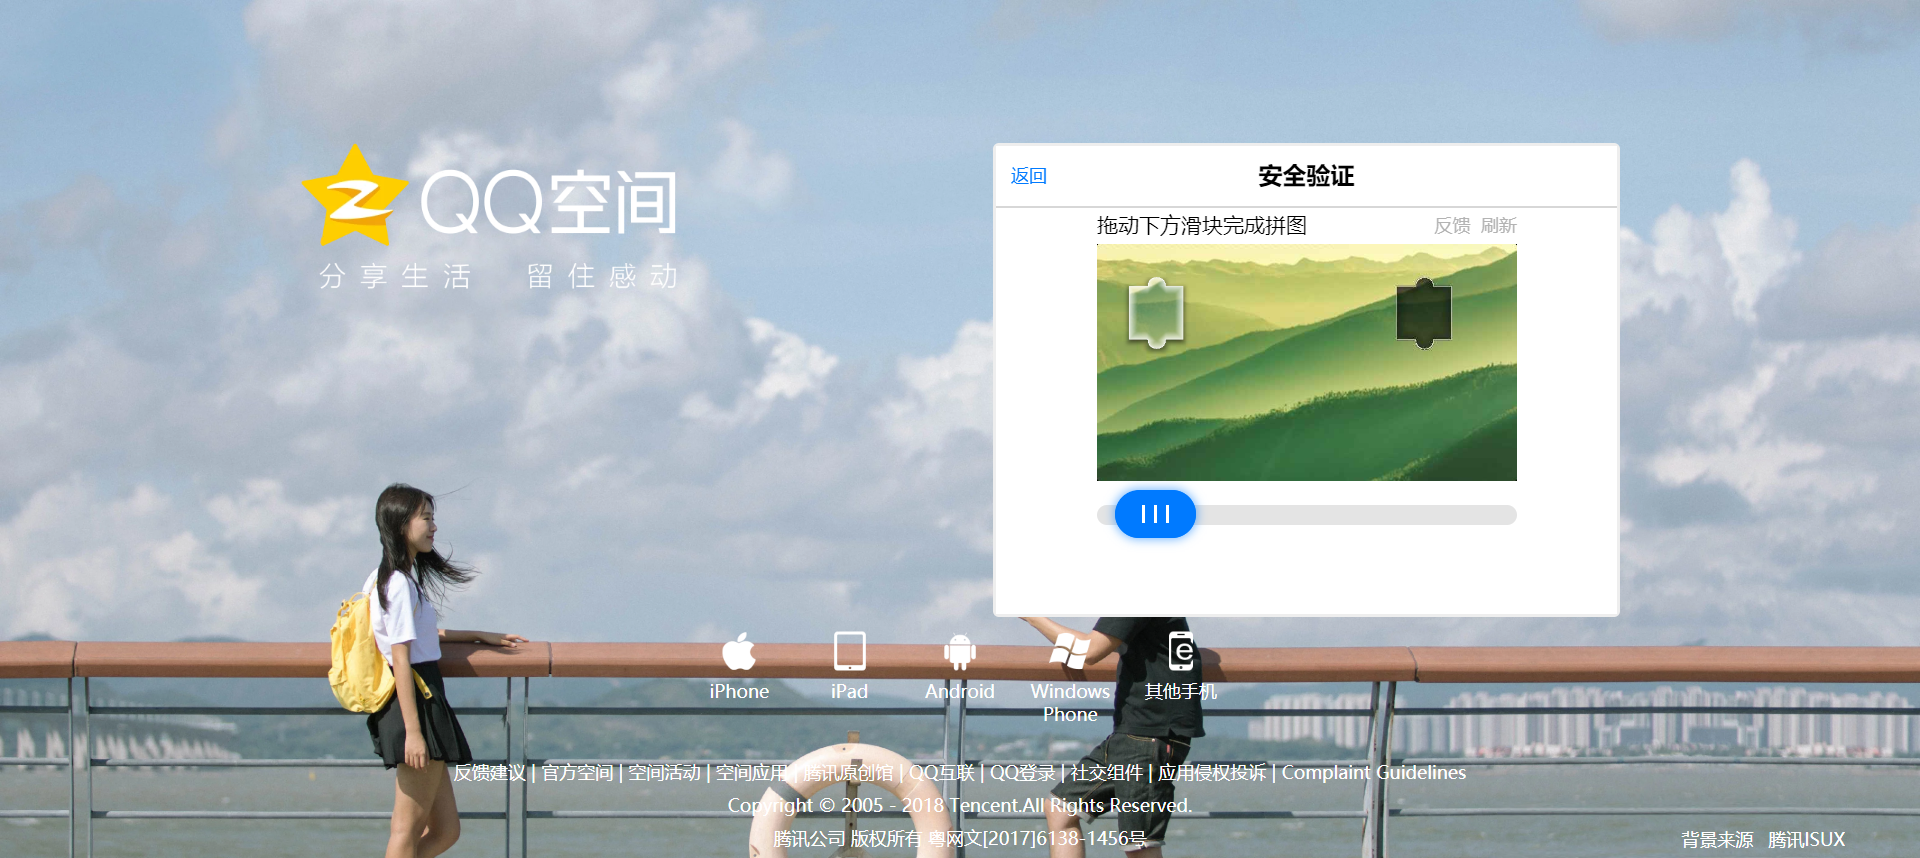
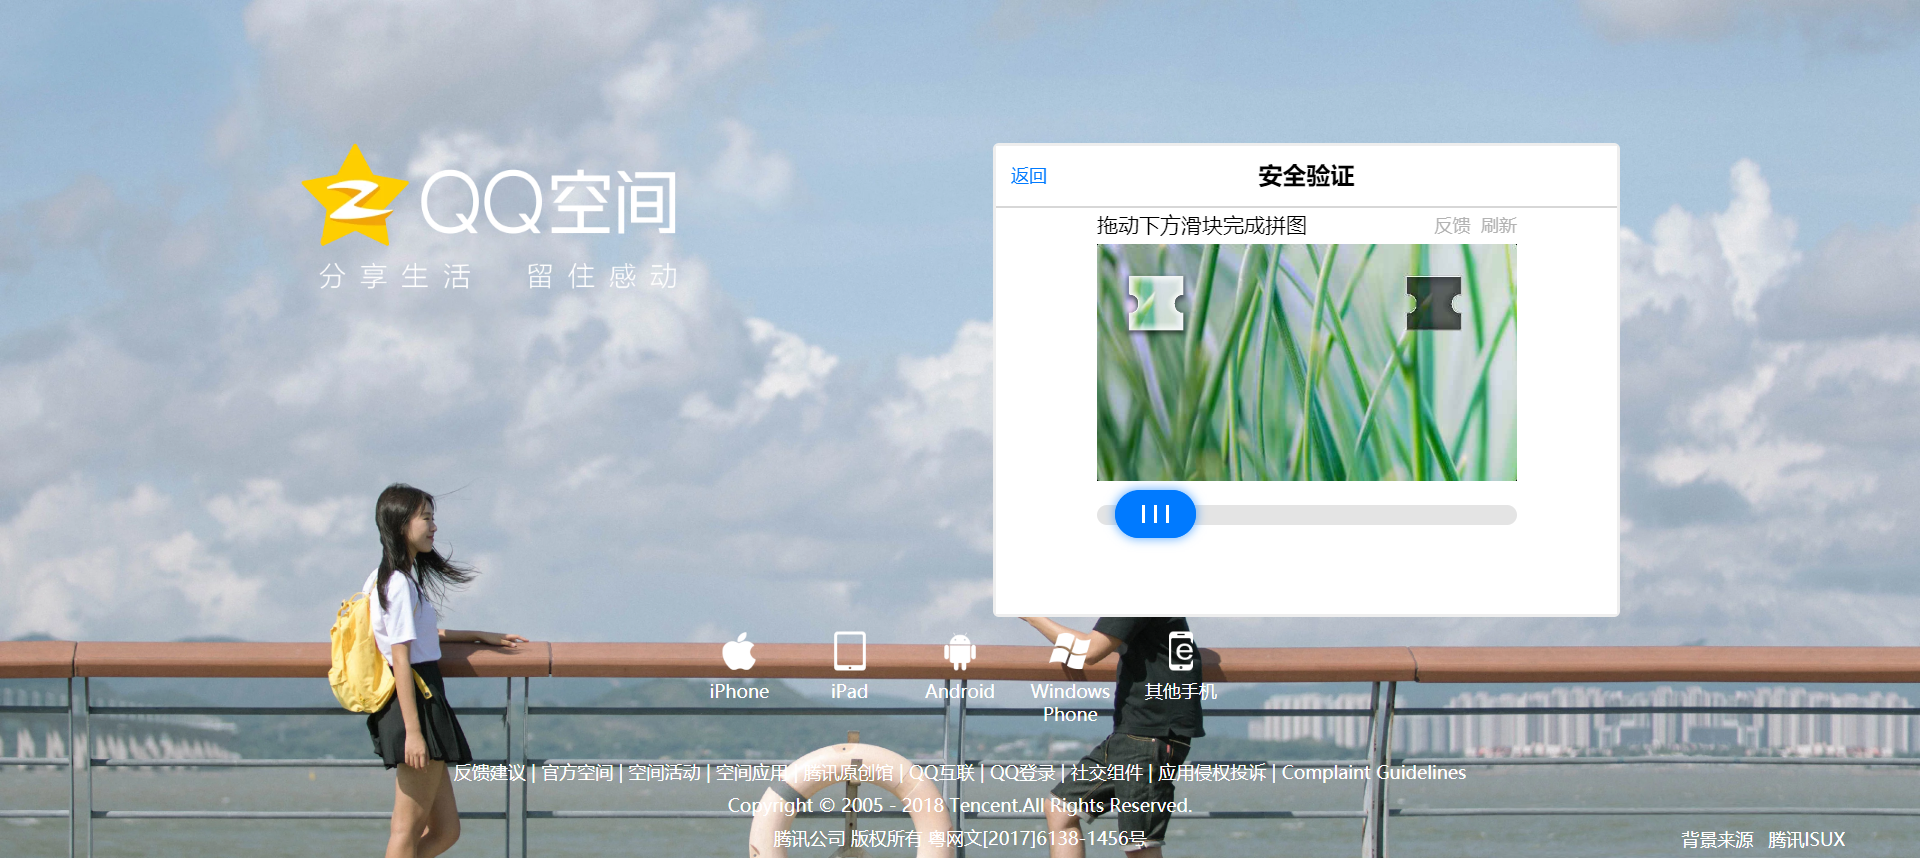
1

Changed region(s): [[0.5625, 0.2727, 0.8125, 0.5758]]

diff --git a/Demo.py b/Demo.py
@@ -1,0 +1,164 @@
+from selenium import webdriver
+from selenium.webdriver.common.by import By
+from pillow import Image, ImageEnhance
+from selenium.webdriver import ActionChains
+from selenium.webdriver.common.keys import Keys
+from selenium.webdriver.support import expected_conditions as EC
+from selenium.webdriver.support.wait import WebDriverWait
+import cv2
+import numpy as np
+from io import BytesIO
+import time, requests
+
+class CrackSlider():
+    """
+    通过浏览器截图，识别验证码中缺口位置，获取需要滑动距离，并模仿人类行为破解滑动验证码
+    """
+    def __init__(self):
+        super(CrackSlider, self).__init__()
+        # 实际地址
+        self.url = 'http://3g.163.com/wap/special/newsapp_idol_personal/?starId=14#/home'
+        self.driver = webdriver.Chrome()
+        self.wait = WebDriverWait(self.driver, 20)
+        self.zoom = 2
+
+    def open(self):
+        self.driver.get(self.url)
+
+    def get_pic(self):
+        time.sleep(2)
+        target = browser.find_element_by_class_name("yidun_bg-img")
+        template = browser.find_element_by_class_name("yidun_jigsaw")
+        target_link = target.get_attribute('src')
+        template_link = template.get_attribute('src')
+        target_img = Image.open(BytesIO(requests.get(target_link).content))
+        template_img = Image.open(BytesIO(requests.get(template_link).content))
+        target_img.save('target.jpg')
+        template_img.save('template.png')
+        size_orign = target.size
+        local_img = Image.open('target.jpg')
+        size_loc = local_img.size
+        self.zoom = 320 / int(size_loc[0])
+
+    def get_tracks(self, distance):
+        print(distance)
+        distance += 20
+        v = 0
+        t = 0.2
+        forward_tracks = []
+        current = 0
+        mid = distance * 3/5
+        while current < distance:
+            if current < mid:
+                a = 2
+            else:
+                a = -3
+            s = v * t + 0.5 * a * (t**2)
+            v = v + a * t
+            current += s
+            forward_tracks.append(round(s))
+
+        back_tracks = [-3,-3,-2,-2,-2,-2,-2,-1,-1,-1]
+        return {'forward_tracks':forward_tracks,'back_tracks':back_tracks}
+
+    def match(self, target, template):
+        img_rgb = cv2.imread(target)
+        img_gray = cv2.cvtColor(img_rgb, cv2.COLOR_BGR2GRAY)
+        template = cv2.imread(template,0)
+        run = 1
+        w, h = template.shape[::-1]
+        print(w, h)
+        res = cv2.matchTemplate(img_gray,template,cv2.TM_CCOEFF_NORMED)
+
+        # 使用二分法查找阈值的精确值
+        L = 0
+        R = 1
+        while run < 20:
+            run += 1
+            threshold = (R + L) / 2
+            if threshold < 0:
+                print('Error')
+                return None
+            loc = np.where( res >= threshold)
+            #print(len(loc[1]))
+            if len(loc[1]) > 1:
+                L += (R - L) / 2
+            elif len(loc[1]) == 1:
+                print('目标区域起点x坐标为：%d' % loc[1][0])
+                break
+            elif len(loc[1]) < 1:
+                R -= (R - L) / 2
+
+        return loc[1][0]
+
+    def crack_slider(self,browser):
+        #self.open()
+        target = 'target.jpg'
+        template = 'template.png'
+        self.get_pic()
+        distance = self.match(target, template)
+        zoo = 1.36 #缩放系数，需要自己调整大小
+        tracks = self.get_tracks((distance + 7 )*zoo) # 对位移的缩放计算
+        #print(tracks)
+        slider = browser.find_element_by_class_name("yidun_slider")
+        ActionChains(browser).click_and_hold(slider).perform()
+
+        for track in tracks['forward_tracks']:
+            ActionChains(browser).move_by_offset(xoffset=track, yoffset=0).perform()
+
+        time.sleep(0.5)
+        for back_tracks in tracks['back_tracks']:
+            ActionChains(browser).move_by_offset(xoffset=back_tracks, yoffset=0).perform()
+
+        ActionChains(browser).move_by_offset(xoffset=-3, yoffset=0).perform()
+        ActionChains(browser).move_by_offset(xoffset=3, yoffset=0).perform()
+        time.sleep(0.5)
+        ActionChains(browser).release().perform()
+        try:
+            failure = WebDriverWait(browser, 5).until(EC.text_to_be_present_in_element((By.CLASS_NAME, 'yidun_tips__text'), '向右滑动滑块填充拼图'))
+            print(failure)
+        except:
+            print('验证成功')
+            return None
+
+        if failure:
+            self.crack_slider(browser)
+
+#if __name__ == '__main__':
+browser = webdriver.Chrome()
+
+username="11111111"  #填自己的用户名
+passwd="1111111" #填用户名对应的密码
+browser = webdriver.Chrome()
+# 打开的是QQ登录界面，可以自己改
+browser.get('https://xui.ptlogin2.qq.com/cgi-bin/xlogin?appid=716027609&pt_3rd_aid=100374397&daid=383&pt_skey_valid=0&style=35&s_url=http%3A%2F%2Fconnect.qq.com&refer_cgi=authorize&which=&client_id=100374397&redirect_uri=https%3A%2F%2Freg.163.com%2FouterLogin%2Foauth2%2Ftencent_connect.do%3Furl%3Dhttp%253A%252F%252F3g.163.com%252Fwap%252Fspecial%252Fnewsapp_idol_personal%252F%253FstarId%253D14%26url2%3Dhttp%253A%252F%252F3g.163.com%252Ftouch%252Flogin%252F%253Furl%253Dhttp%253A%252F%252F3g.163.com%252Fwap%252Fspecial%252Fnewsapp_idol_personal%252F%253FstarId%253D14%2523%252Fhome%2526fail%26product%3D3g_163%26domains%3D163.com%26display%3Dmobile%26urs_tg%3D1&response_type=code&state=f8ccbd6b5d42d1a87da1a9f33d1920b7&scope=get_user_info&display=mobile')
+browser.implicitly_wait(10)
+# 需要自己按F12查原网址对应的用户名和密码框的id_name
+elem=browser.find_element_by_id("u")
+elem.send_keys(username)
+elem=browser.find_element_by_id("p")
+elem.send_keys(passwd)
+elem=browser.find_element_by_id("go")
+elem.click()
+
+browser.implicitly_wait(10)
+browser.switch_to_window(browser.window_handles[-1])
+c = CrackSlider()
+k = 1
+for i in range(1,70000):
+    try:
+        elem=browser.find_element_by_class_name("idol_vote_info")
+        elem.click()
+        time.sleep(0.2)
+        # 设置点击50次刷新一次
+        if k%50 == 0:
+            browser.refresh()   # 刷新方法 refresh
+            print ('test pass: refresh successful')
+        # 点击110次休眠50s，可以自己设置
+        if k%110 == 0:
+            print ("click",k)
+            time.sleep(50)
+        k += 1
+    except:
+        print('-----需要验证-----')
+        c.crack_slider(browser)

diff --git a/qqzonespiderMobile.py b/qqzonespiderMobile.py
@@ -10,25 +10,42 @@ from selenium import webdriver
 from selenium import webdriver
 
 import time
+from selenium.webdriver import ActionChains
 # 启动phantomjs无界面浏览器
 browser=webdriver.Chrome()
 # 打开qq空间登录界面
 browser.get('https://ui.ptlogin2.qq.com/cgi-bin/login?pt_hide_ad=1&style=9&pt_ttype=1&appid=549000929&pt_no_auth=1&pt_wxtest=1&daid=5&s_url=https%3A%2F%2Fh5.qzone.qq.com%2Fmqzone%2Findex')
 # 全屏截取
+print('11')
 browser.maximize_window()
 #time.sleep(2)
 # 确定打开了登录页面，保存截图
-browser.save_screenshot('qq1.png')
+#browser.save_screenshot('qq1.png')
 # 切换至登录框架
 #browser.switch_to.frame("login_frame")
 # # 点击使用用户名和密码登录
 #browser.find_element_by_id('switcher_plogin').click()
 # # 获取登录名和密码输入框的id，使用id获取元素并在对应输入框内输入登录信息
-browser.find_element_by_id('u').send_keys('1334347212')
-browser.find_element_by_id('p').send_keys('bingo2146295901')
+browser.find_element_by_id('u').send_keys('1280041038')
+browser.find_element_by_id('p').send_keys('password')
+print('333')
 # browser.save_screenshot('qq2.png')
 # # 获取登录按钮的id，点击
 browser.find_element_by_id('go').click()
+time.sleep(5)
+browser.switch_to_frame('tcaptcha_iframe')
+action=ActionChains(browser)
+slidepic=browser.find_element_by_id('tcaptcha_drag_button')
+#print(slidepic)
+xylocation=browser.find_element_by_id('tcaptcha_drag_button').location
+print("x="+str(xylocation['x'])+"  y="+str(xylocation['y']))
+action.click_and_hold(slidepic).perform()
+action.move_to_element_with_offset(slidepic, 50, 0).perform()
+time.sleep(0.5)
+action.move_to_element_with_offset(slidepic, 60, 0).perform()
+time.sleep(0.8)
+action.move_to_element_with_offset(slidepic, 74, 0).release().perform()
+browser.save_screenshot('test.png')
 # 直接点击头像登录
 #browser.find_element_by_id('img_out_*********').click() # 此处*为qq密码
 # 保存屏幕快照

diff --git a/qqzonespider.py b/qqzonespider.py
@@ -22,12 +22,12 @@ time.sleep(2)
 # 确定打开了登录页面，保存截图
 browser.save_screenshot('qq1.png')
 # 切换至登录框架
-browser.switch_to.frame("login_frame")
+browser.switch_to.frame(0)
 # # 点击使用用户名和密码登录
 browser.find_element_by_id('switcher_plogin').click()
 # # 获取登录名和密码输入框的id，使用id获取元素并在对应输入框内输入登录信息
-browser.find_element_by_id('u').send_keys('1009330792')
-browser.find_element_by_id('p').send_keys('bingo8496982587')
+browser.find_element_by_id('u').send_keys('3451918377')
+browser.find_element_by_id('p').send_keys('password')
 # browser.save_screenshot('qq2.png')
 # # 获取登录按钮的id，点击
 time.sleep(1)
@@ -39,12 +39,14 @@ slidepic=browser.find_element_by_id('tcaptcha_drag_button')
 #print(slidepic)
 xylocation=browser.find_element_by_id('tcaptcha_drag_button').location
 print("x="+str(xylocation['x'])+"  y="+str(xylocation['y']))
-action.click_and_hold(slidepic).perform()
-action.move_to_element_with_offset(slidepic, 50, 0).perform()
-time.sleep(0.5)
-action.move_to_element_with_offset(slidepic, 60, 0).perform()
-time.sleep(0.8)
-action.move_to_element_with_offset(slidepic, 74, 0).release().perform()
+for i in range(1,100):
+ action.click_and_hold(slidepic).perform()
+ action.move_to_element_with_offset(slidepic, 50, 0).perform()
+ time.sleep(5)
+ action.move_to_element_with_offset(slidepic, 60, 0).perform()
+ time.sleep(3)
+ action.move_to_element_with_offset(slidepic, 150, 0).release().perform()
+ time.sleep(5)
 browser.save_screenshot('test.png')
 #action.release().perform()
 #action.move_to_element_with_offset(slidepic, 200, 0)
